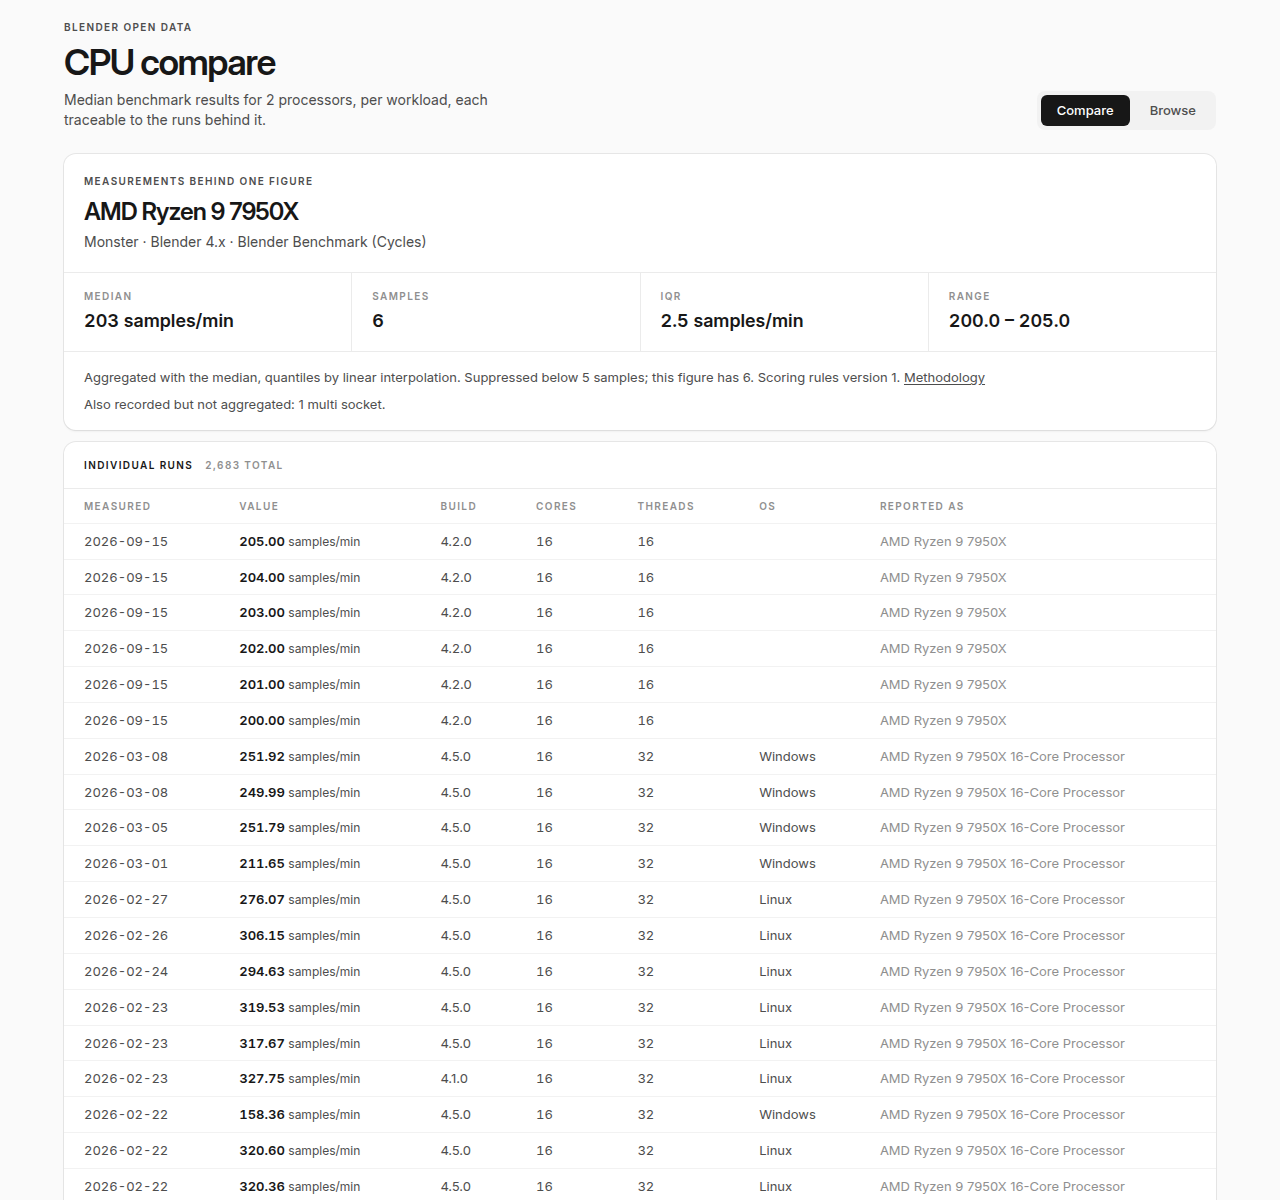
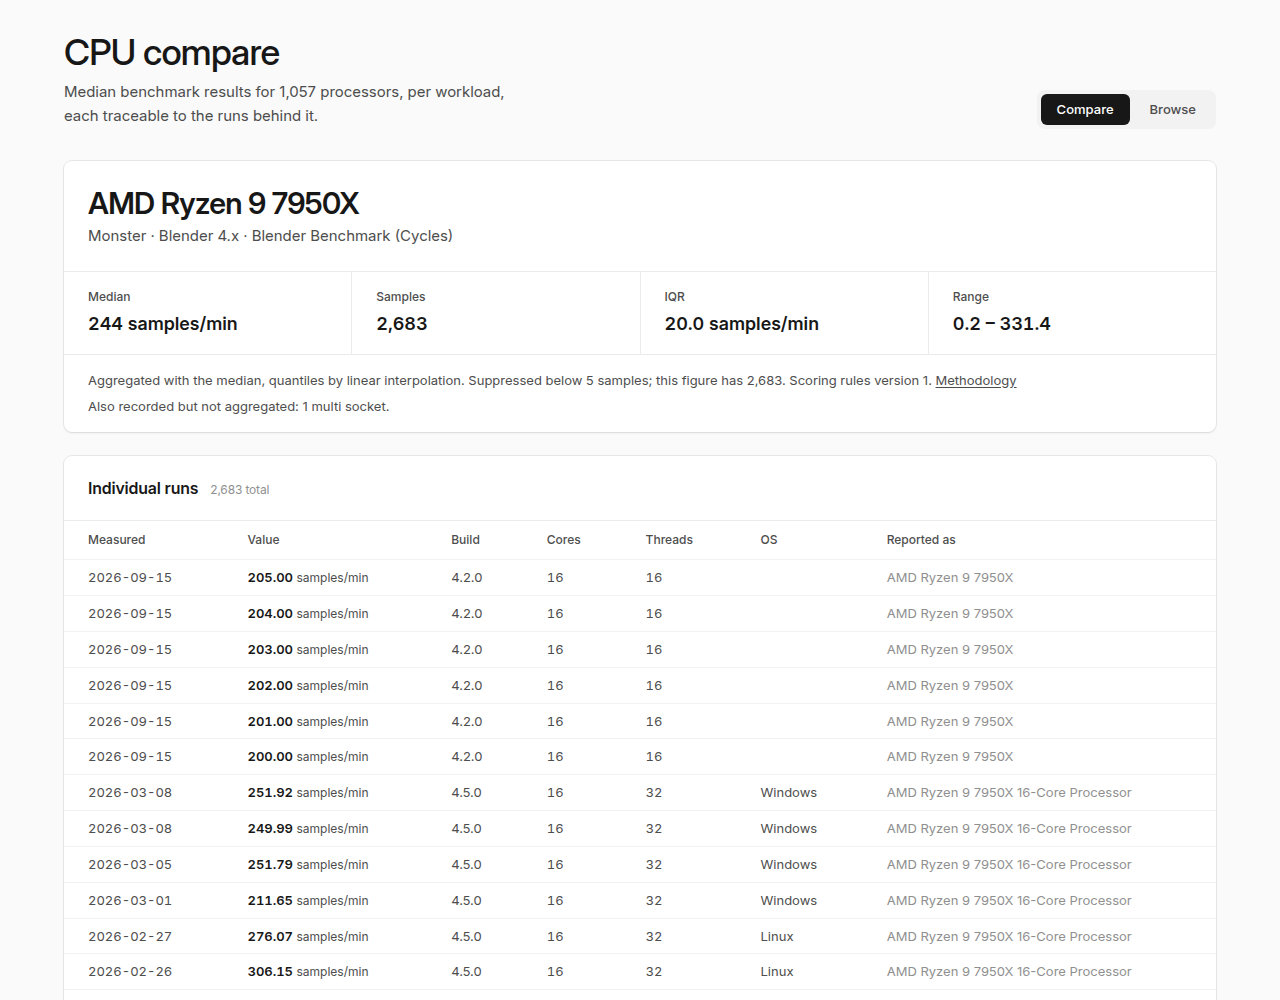
style: remove every micro-uppercase eyebrow label
The tracked-out 10px caps were the last generic-AI tell: kickers above
display headings, the BENCHMARK label, chart annotations, status hints
and table micro-labels all become plain 12px muted sentence case, and
the .eyebrow utility is deleted so it cannot creep back. Section
titles, column headers and provenance already had their own voices.

diff --git a/app/assets/tailwind/application.css b/app/assets/tailwind/application.css
@@ -136,16 +136,6 @@
 }
 
 @layer components {
-  /* Micro kicker above display headings. The only uppercase element left;
-     section titles and table headers have their own voices below. */
-  .eyebrow {
-    font-size: 10px;
-    font-weight: 600;
-    letter-spacing: 0.14em;
-    line-height: 1.4;
-    text-transform: uppercase;
-  }
-
   /* Card and section titles: 16px at the strong in-between weight. */
   .section-title {
     font-size: 16px;

diff --git a/README.md b/README.md
@@ -230,8 +230,9 @@ everywhere except code and inputs, and tracking that tightens as size grows.
 Headings form a real scale (36px page titles, 16px section titles) instead of
 tracked-out capitals: `.section-title` carries card and section headings in
 sentence case, `.th-label` gives table headers a quiet 12px medium voice, and
-the micro uppercase `.eyebrow` survives only for kickers and chart
-annotations. Flowing text runs at 15px; sections breathe on a 24px rhythm
+provenance metadata reads in 12px normal case. There is no micro-uppercase
+label style left — kickers are gone entirely and annotations, hints and
+statuses are plain 12px muted text. Flowing text runs at 15px; sections breathe on a 24px rhythm
 with generous card padding, while table rows stay dense.
 
 Bars are drawn as upright ticks on a shared pitch by the `ticks` utility —
